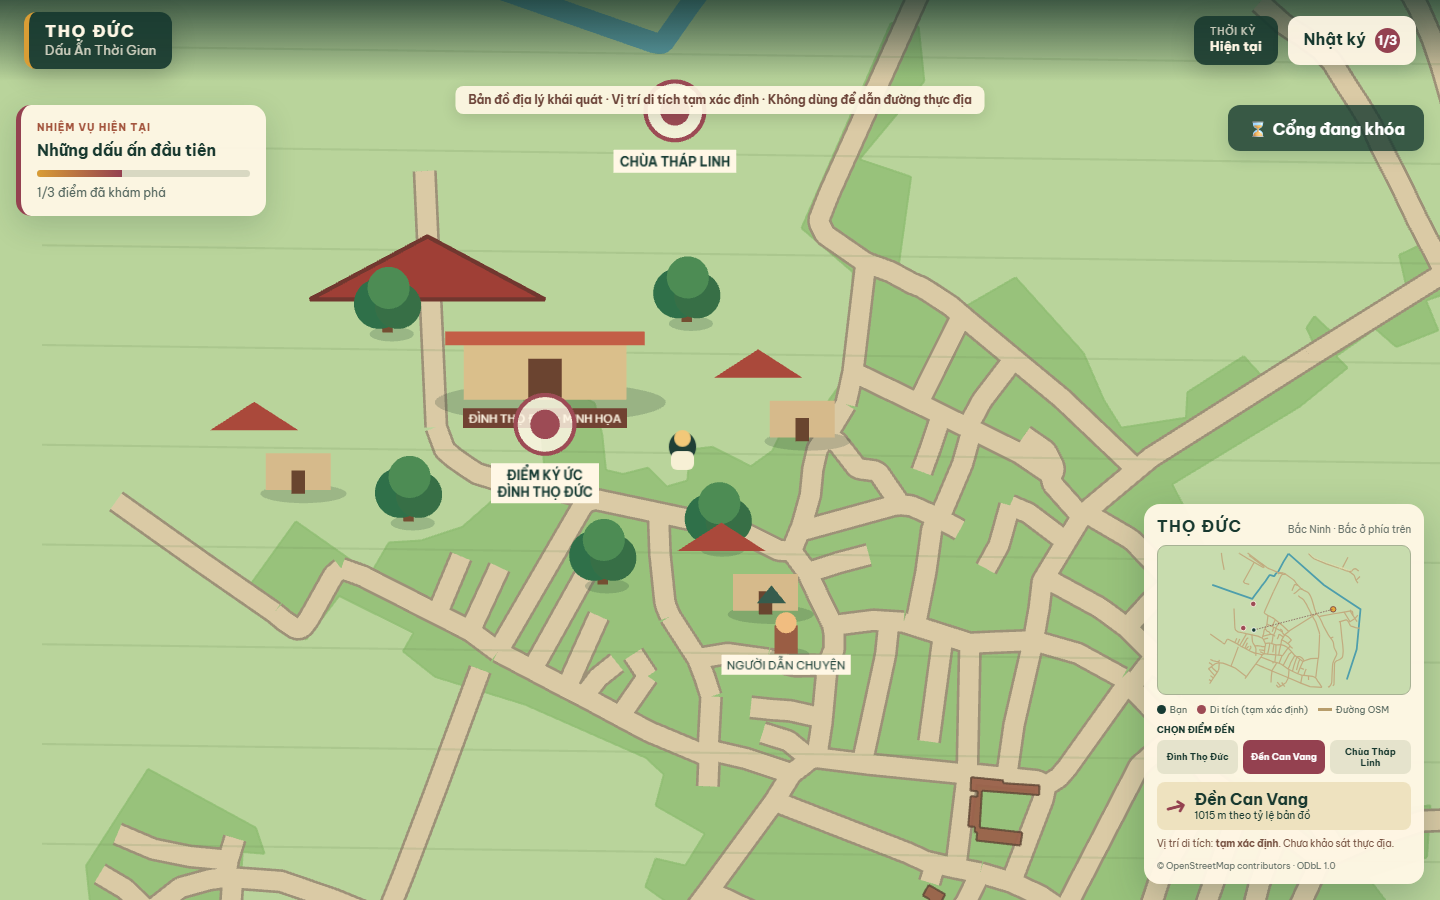
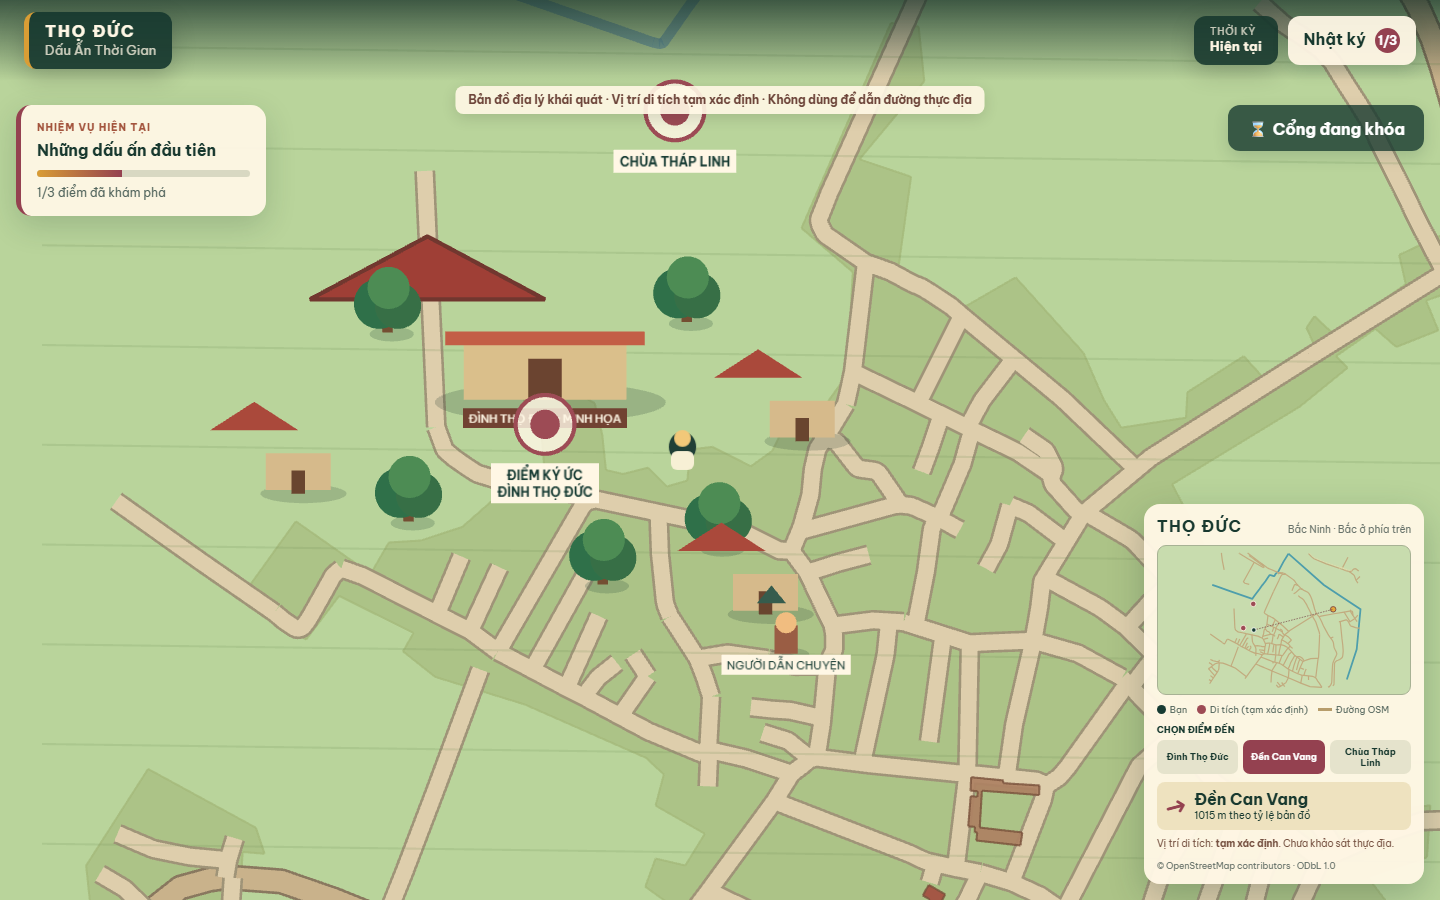
Sprint 03B.1 – Map Visual Style Integration

diff --git a/src/game/scenes/VillageScene.ts b/src/game/scenes/VillageScene.ts
@@ -4,8 +4,9 @@ import type { InteractionTarget } from '../../shared/events/GameEvents';
 import type { GameSession } from '../../services/GameSession';
 import type { AssetRegistry } from '../../assets/AssetRegistry';
 import type { SceneDecorationRegistry } from '../../assets/SceneDecorationRegistry';
+import type { MapVisualStyleRegistry } from '../../assets/MapVisualStyleRegistry';
+import type { MapVisualStyle } from '../../assets/mapVisualTypes';
 import { NavigationService } from '../../services/NavigationService';
-import { getEraVisualLayers } from '../../services/MapLayerService';
 import { renderVillageArt } from '../rendering/VillageArtRenderer';
 
 interface TargetPoint { x: number; y: number; target: InteractionTarget; visual?: Phaser.GameObjects.Container }
@@ -26,7 +27,7 @@ export class VillageScene extends Phaser.Scene {
   private renderedEra: EraId | null = null;
   private facing: 'up' | 'down' | 'left' | 'right' = 'down';
 
-  constructor(private readonly session: GameSession, private readonly assetRegistry: AssetRegistry, private readonly sceneDecorations: SceneDecorationRegistry | null) { super('village'); }
+  constructor(private readonly session: GameSession, private readonly assetRegistry: AssetRegistry, private readonly sceneDecorations: SceneDecorationRegistry | null, private readonly mapVisualStyles: MapVisualStyleRegistry) { super('village'); }
 
   create(): void {
     const { width, height } = this.session.content.map.projection.world;
@@ -114,23 +115,29 @@ export class VillageScene extends Phaser.Scene {
     this.renderedEra = era;
     this.eraLayer.removeAll(true);
     const historical = era === 'ly_1077';
-    const layers = getEraVisualLayers(this.session.content.map, era);
     const { width, height } = this.session.content.map.projection.world;
     this.eraLayer.add(this.add.rectangle(width / 2, height / 2, width, height, historical ? 0xb8aa78 : 0xb9d49b));
-    if (historical) {
-      this.drawHistoricalReconstruction(width, height);
-      this.drawLines(layers.water, 0x6f8882, 14, undefined, 0.55);
-    } else {
-      this.drawPolygons(layers.landuse, 0x8fbd72, 0.78);
-      this.drawLines(layers.water, 0x65a9b2, 20);
-      this.drawLines(layers.roads, 0xdacaa5, 18, 0x9d9178);
-      this.drawLines(layers.footpaths, 0xeee1bf, 8);
-      this.drawPolygons(layers.buildings, 0x9a624b, 0.95, 0x5e4635);
-    }
+    if (historical) this.drawHistoricalReconstruction(width, height);
+    this.drawMapVisualLayers(era);
     renderVillageArt(this, this.eraLayer, this.session.content.map, era, this.assetRegistry, this.sceneDecorations);
     const label = this.add.text(95, 95, historical ? 'THỌ ĐỨC · TÁI HIỆN DIỄN GIẢI 1077' : 'THỌ ĐỨC · BẢN ĐỒ HIỆN TẠI', { fontFamily: '"Be Vietnam Pro", sans-serif', fontSize: '18px', color: historical ? '#493b2c' : '#173b33', fontStyle: 'bold' });
     const note = historical ? this.add.text(95, 124, 'Không hiển thị đường/công trình hiện đại · Thủy hệ chỉ là mốc tham chiếu hiện nay', { fontFamily: '"Be Vietnam Pro", sans-serif', fontSize: '13px', color: '#584a36', backgroundColor: '#e6d7a8', padding: { x: 8, y: 5 } }) : null;
     this.eraLayer.add(note ? [label, note] : label);
+  }
+
+  private drawMapVisualLayers(era: EraId): void {
+    const groups = new Map<string, { style: MapVisualStyle; features: MapFeature[] }>();
+    this.mapVisualStyles.resolve(this.session.content.map, era).forEach(({ style, feature }) => {
+      const group = groups.get(style.id) ?? { style, features: [] };
+      group.features.push(feature);
+      groups.set(style.id, group);
+    });
+    groups.forEach(({ style, features }) => {
+      const color = Number.parseInt(style.color.slice(1), 16);
+      const outline = style.outlineColor ? Number.parseInt(style.outlineColor.slice(1), 16) : undefined;
+      if (style.paint === 'line') this.drawLines(features, color, style.width!, outline, style.alpha);
+      else this.drawPolygons(features, color, style.alpha, outline ?? color);
+    });
   }
 
   private drawLines(features: MapFeature[], color: number, width: number, outline?: number, alpha = 1): void {

diff --git a/src/app/App.tsx b/src/app/App.tsx
@@ -4,6 +4,8 @@ import { loadAssetRegistry } from '../assets/loadAssetRegistry';
 import type { AssetRegistry } from '../assets/AssetRegistry';
 import { loadSceneDecorationRegistry } from '../assets/loadSceneDecorationRegistry';
 import type { SceneDecorationRegistry } from '../assets/SceneDecorationRegistry';
+import { loadMapVisualStyleRegistry } from '../assets/loadMapVisualStyleRegistry';
+import type { MapVisualStyleRegistry } from '../assets/MapVisualStyleRegistry';
 import { loadContent } from '../content/loadContent';
 import { GameSession } from '../services/GameSession';
 import { SaveService } from '../services/SaveService';
@@ -22,6 +24,7 @@ export default function App() {
   const [content, setContent] = useState<GameContent | null>(null);
   const [assetRegistry, setAssetRegistry] = useState<AssetRegistry | null>(null);
   const [sceneDecorations, setSceneDecorations] = useState<SceneDecorationRegistry | null>(null);
+  const [mapVisualStyles, setMapVisualStyles] = useState<MapVisualStyleRegistry | null>(null);
   const [decorationWarning, setDecorationWarning] = useState('');
   const [phase, setPhase] = useState<Phase>('loading');
   const [loadError, setLoadError] = useState('');
@@ -34,12 +37,12 @@ export default function App() {
 
   useEffect(() => {
     let active = true;
-    Promise.all([loadContent(), loadAssetRegistry()])
-      .then(async ([loaded, registry]) => {
+    Promise.all([loadContent(), loadAssetRegistry(), loadMapVisualStyleRegistry()])
+      .then(async ([loaded, registry, visualStyles]) => {
         const decorations = await loadSceneDecorationRegistry(registry)
           .then((value) => ({ value, warning: '' }))
           .catch((error: unknown) => ({ value: null, warning: error instanceof Error ? error.message : 'Unable to load scene decorations.' }));
-        if (active) { setContent(loaded); setAssetRegistry(registry); setSceneDecorations(decorations.value); setDecorationWarning(decorations.warning); setPhase('menu'); }
+        if (active) { setContent(loaded); setAssetRegistry(registry); setSceneDecorations(decorations.value); setMapVisualStyles(visualStyles); setDecorationWarning(decorations.warning); setPhase('menu'); }
       })
       .catch((error: unknown) => { if (active) { setLoadError(error instanceof Error ? error.message : 'Không thể tải dữ liệu trò chơi.'); setPhase('error'); } });
     return () => { active = false; };
@@ -94,7 +97,7 @@ export default function App() {
   };
 
   if (phase === 'loading') return <main className="loading-screen"><div className="loader" /><h1>Đang mở hành trình…</h1><p>Đang tải bản đồ và dữ liệu minh họa</p></main>;
-  if (phase === 'error' || !session || !assetRegistry) return <main className="fatal-error"><h1>Không thể khởi động</h1><p>{loadError}</p><button onClick={() => window.location.reload()}>Thử lại</button></main>;
+  if (phase === 'error' || !session || !assetRegistry || !mapVisualStyles) return <main className="fatal-error"><h1>Không thể khởi động</h1><p>{loadError}</p><button onClick={() => window.location.reload()}>Thử lại</button></main>;
 
   if (phase === 'menu') {
     return (
@@ -120,7 +123,7 @@ export default function App() {
   const eraLabel = state.activeEra === 'present' ? 'Hiện tại' : '1077 · Tái hiện';
   return (
     <main className={`game-shell era-${state.activeEra}`}>
-      <GameCanvas session={session} assetRegistry={assetRegistry} sceneDecorations={sceneDecorations} />
+      <GameCanvas session={session} assetRegistry={assetRegistry} sceneDecorations={sceneDecorations} mapVisualStyles={mapVisualStyles} />
       <header className="game-header">
         <div className="brand-mark"><span>THỌ ĐỨC</span><small>Dấu Ấn Thời Gian</small></div>
         <div className="status-group">

diff --git a/src/game/GameCanvas.tsx b/src/game/GameCanvas.tsx
@@ -2,21 +2,22 @@ import { useEffect, useRef } from 'react';
 import type Phaser from 'phaser';
 import type { AssetRegistry } from '../assets/AssetRegistry';
 import type { SceneDecorationRegistry } from '../assets/SceneDecorationRegistry';
+import type { MapVisualStyleRegistry } from '../assets/MapVisualStyleRegistry';
 import type { GameSession } from '../services/GameSession';
 import { createGame } from './config/createGame';
 
-export function GameCanvas({ session, assetRegistry, sceneDecorations }: { session: GameSession; assetRegistry: AssetRegistry; sceneDecorations: SceneDecorationRegistry | null }) {
+export function GameCanvas({ session, assetRegistry, sceneDecorations, mapVisualStyles }: { session: GameSession; assetRegistry: AssetRegistry; sceneDecorations: SceneDecorationRegistry | null; mapVisualStyles: MapVisualStyleRegistry }) {
   const hostRef = useRef<HTMLDivElement>(null);
   const gameRef = useRef<Phaser.Game | null>(null);
 
   useEffect(() => {
     if (!hostRef.current || gameRef.current) return;
-    gameRef.current = createGame(hostRef.current, session, assetRegistry, sceneDecorations);
+    gameRef.current = createGame(hostRef.current, session, assetRegistry, sceneDecorations, mapVisualStyles);
     return () => {
       gameRef.current?.destroy(true);
       gameRef.current = null;
     };
-  }, [assetRegistry, sceneDecorations, session]);
+  }, [assetRegistry, mapVisualStyles, sceneDecorations, session]);
 
   return <div className="game-canvas" ref={hostRef} aria-label="Bản đồ địa lý Thọ Đức" />;
 }

diff --git a/src/game/config/createGame.ts b/src/game/config/createGame.ts
@@ -1,10 +1,11 @@
 import Phaser from 'phaser';
 import type { AssetRegistry } from '../../assets/AssetRegistry';
 import type { SceneDecorationRegistry } from '../../assets/SceneDecorationRegistry';
+import type { MapVisualStyleRegistry } from '../../assets/MapVisualStyleRegistry';
 import type { GameSession } from '../../services/GameSession';
 import { VillageScene } from '../scenes/VillageScene';
 
-export function createGame(parent: HTMLElement, session: GameSession, assetRegistry: AssetRegistry, sceneDecorations: SceneDecorationRegistry | null): Phaser.Game {
+export function createGame(parent: HTMLElement, session: GameSession, assetRegistry: AssetRegistry, sceneDecorations: SceneDecorationRegistry | null, mapVisualStyles: MapVisualStyleRegistry): Phaser.Game {
   return new Phaser.Game({
     type: Phaser.AUTO,
     parent,
@@ -21,6 +22,6 @@ export function createGame(parent: HTMLElement, session: GameSession, assetRegis
       default: 'arcade',
       arcade: { gravity: { x: 0, y: 0 }, debug: false },
     },
-    scene: [new VillageScene(session, assetRegistry, sceneDecorations)],
+    scene: [new VillageScene(session, assetRegistry, sceneDecorations, mapVisualStyles)],
   });
 }

diff --git a/src/assets/loadMapVisualStyleRegistry.ts b/src/assets/loadMapVisualStyleRegistry.ts
@@ -1,0 +1,9 @@
+import { MapVisualStyleRegistry } from './MapVisualStyleRegistry';
+import type { MapVisualStyleManifest } from './mapVisualTypes';
+
+/** Loads map paint styles from the Vite public base without changing map geometry. */
+export async function loadMapVisualStyleRegistry(): Promise<MapVisualStyleRegistry> {
+  const response = await fetch(`${import.meta.env.BASE_URL}data/map-visual-styles.json`);
+  if (!response.ok) throw new Error(`Unable to load map visual styles (${response.status}).`);
+  return new MapVisualStyleRegistry(await response.json() as MapVisualStyleManifest);
+}
